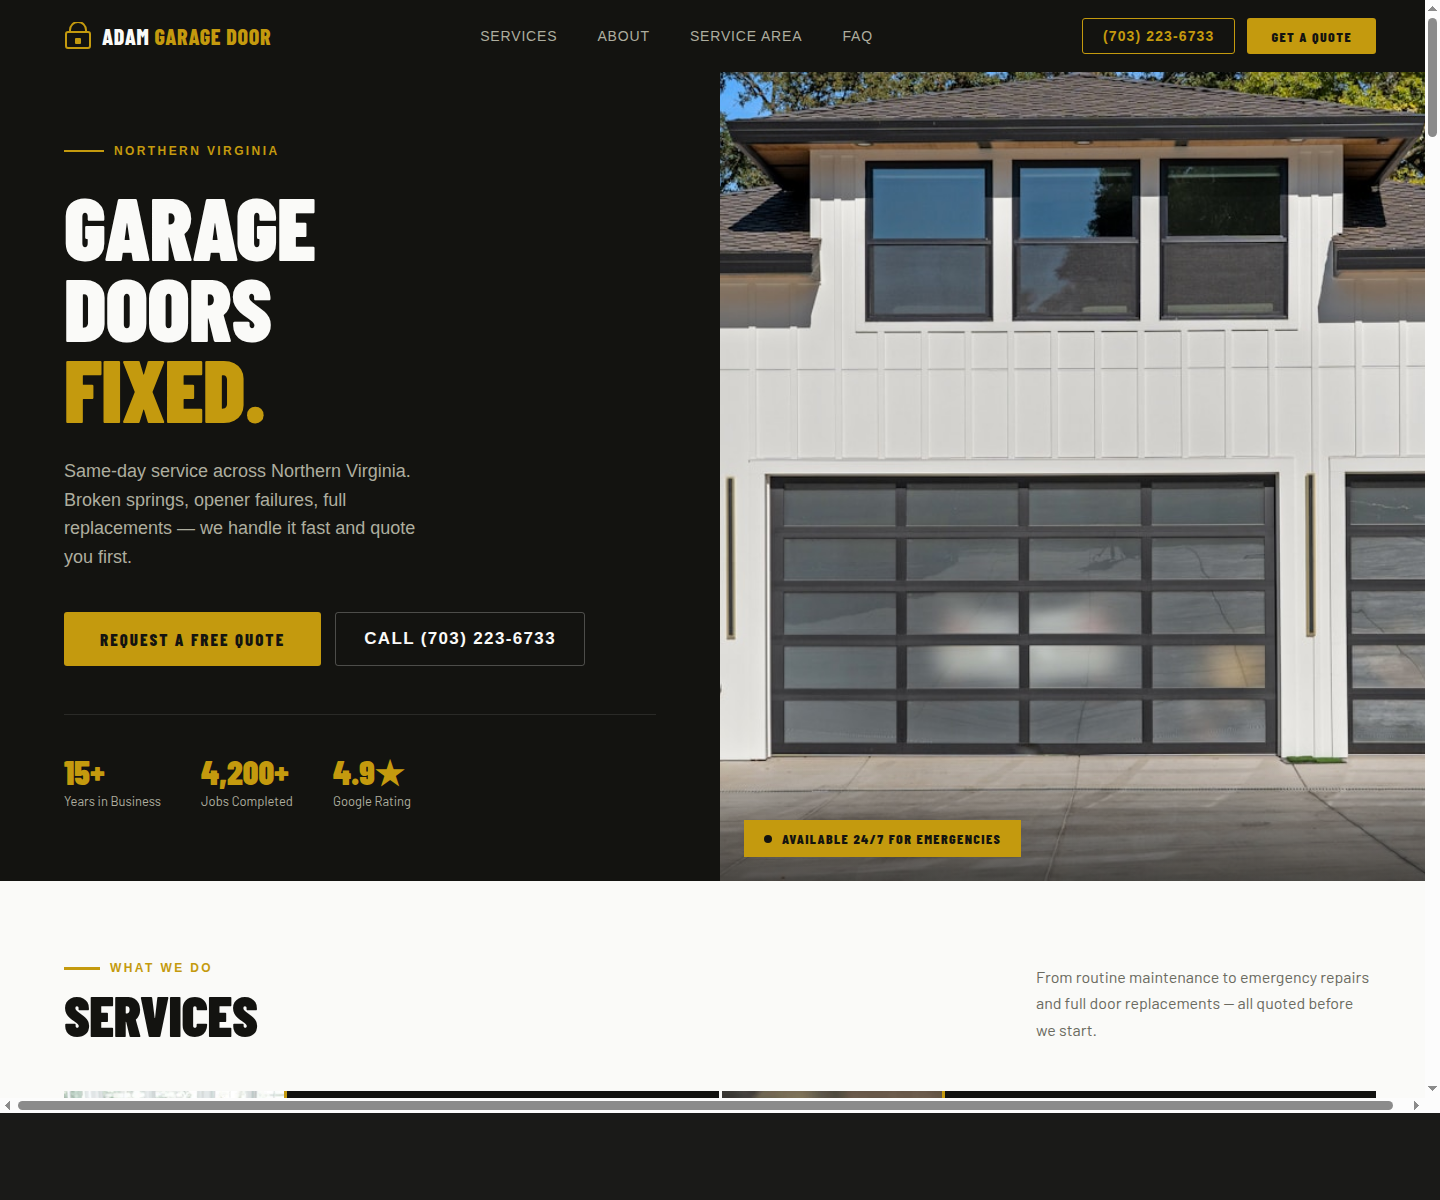
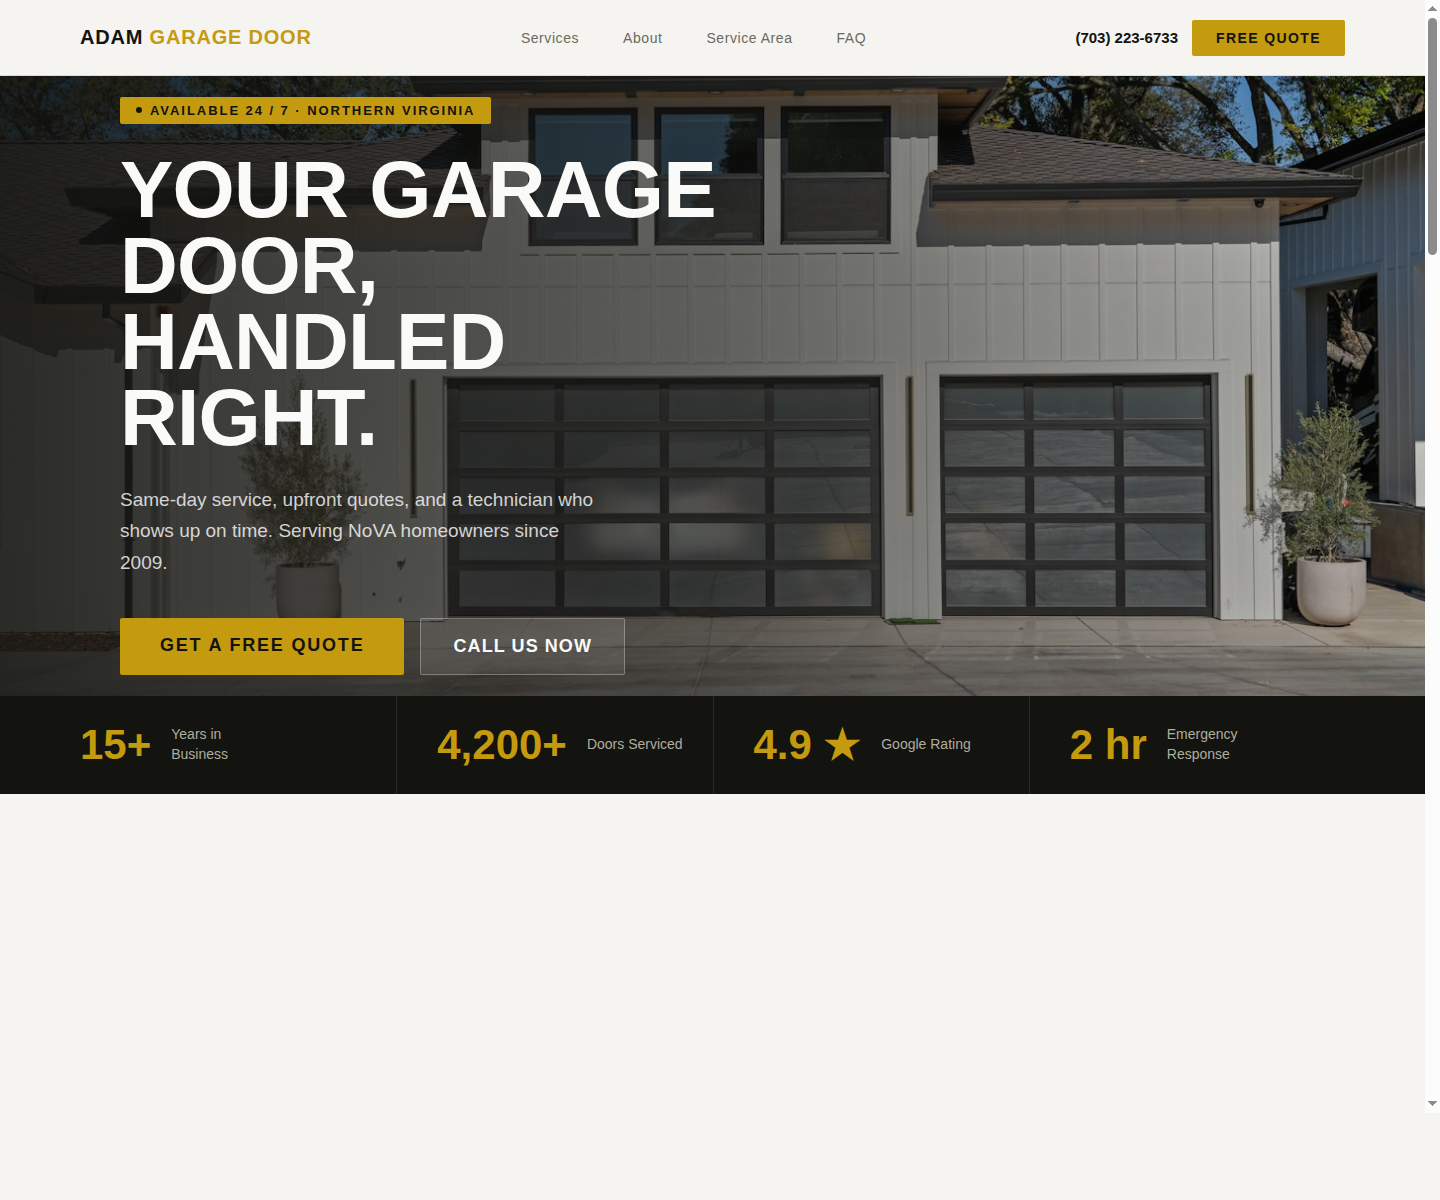
Update Adam Garage Door preview reference

diff --git a/src/app/page.tsx b/src/app/page.tsx
@@ -265,11 +265,11 @@ function CaseStudy() {
         <div className="caseCopy">
           <p className="kicker">Example preview</p>
           <h2>Adam Garage Door concept.</h2>
-          <p>One quick sample direction for a local garage door company: a bold black-and-gold hero, emergency-first positioning, stronger service cards, trust signals before the form, and call/quote CTAs repeated in the right places.</p>
+          <p>One quick sample direction for a local garage door company: a cleaner full-bleed hero, immediate quote and call CTAs, service proof near the top, and a warmer local-business feel.</p>
           <div className="caseBullets">
-            <span>Emergency-first hero</span>
+            <span>Full-bleed local hero</span>
             <span>Phone + quote CTAs</span>
-            <span>Trust and services upfront</span>
+            <span>Trust proof above the fold</span>
           </div>
         </div>
         <div className="casePreview">
